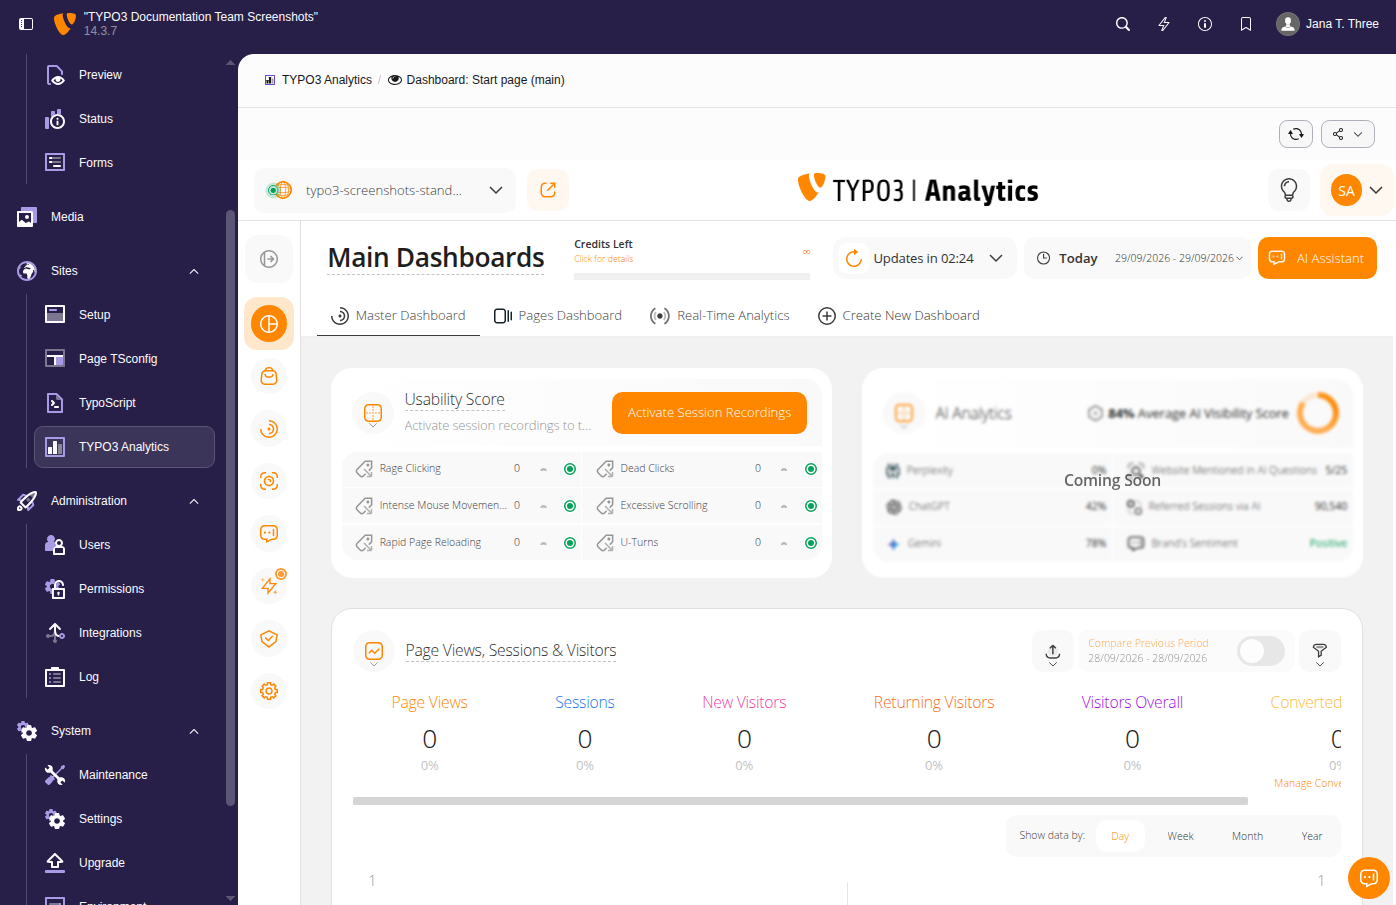
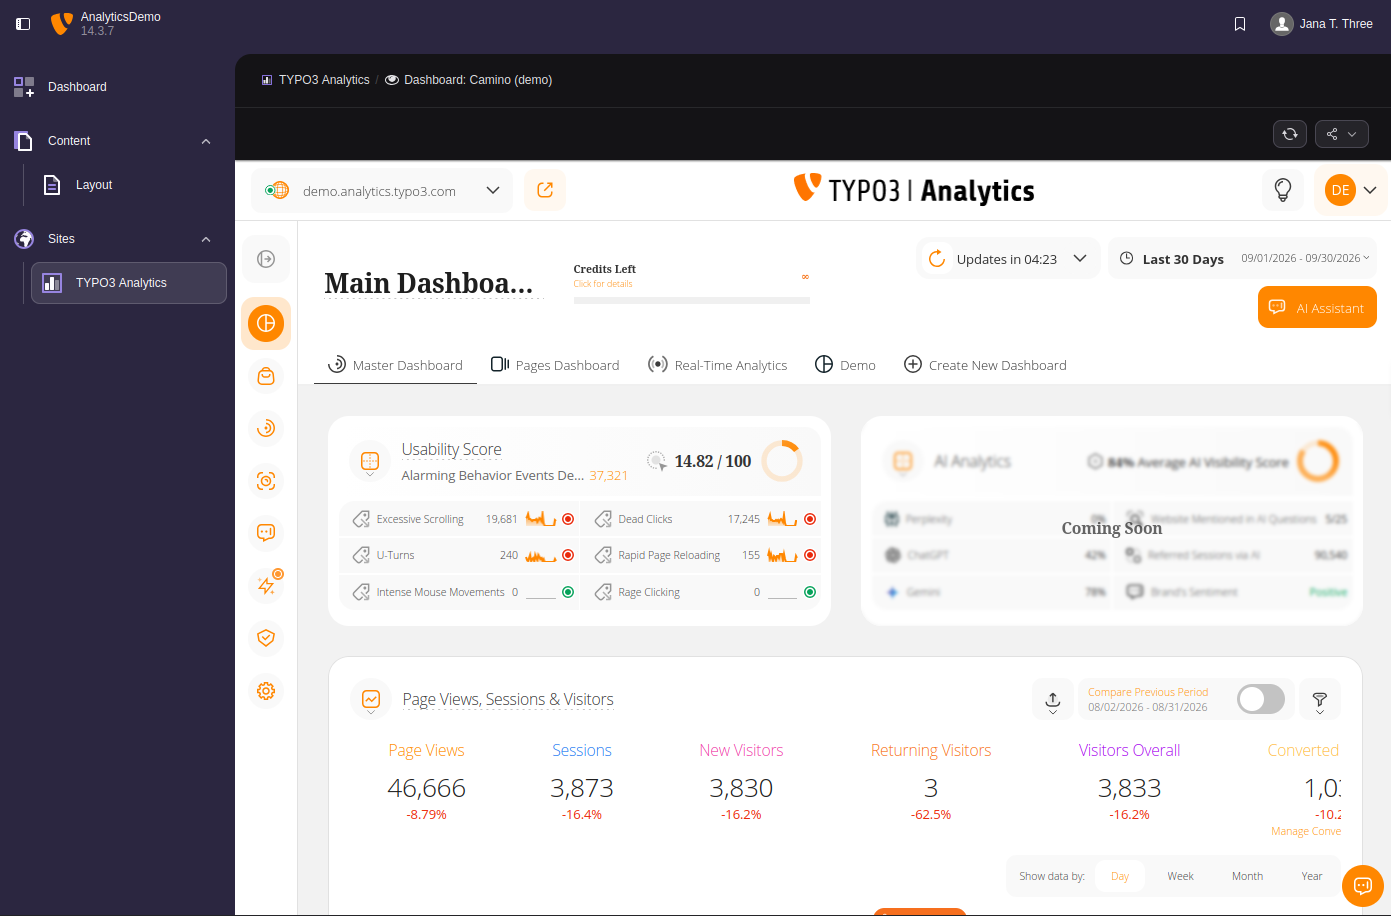
[DOCS] Use screenshots from demo site (#23)

diff --git a/Documentation/Editor/Index.rst b/Documentation/Editor/Index.rst
@@ -20,6 +20,12 @@ For editors
 Dashboard preset
 ================
 
+..  figure:: /Images/dashboard.png
+    :alt: The Dashboard module showing the button to create a new dashboard
+    :zoom: lightbox
+
+    Creating a new dashboard
+
 The extension ships a ready-made **Analytics Overview** dashboard preset that
 can be selected when creating a new TYPO3 dashboard. It pre-populates the
 dashboard with all four widget types:
@@ -32,32 +38,48 @@ dashboard with all four widget types:
 Select **Analytics Overview** in the dashboard creation wizard to get started
 immediately.
 
-..  figure:: /Images/dashboard.png
-    :alt: The open Dashboard module
-    :zoom: lightbox
 
-    Open the Dashboard module
 
-..  figure:: /Images/dashboard-preset.png
-    :alt: The Add Dashboard modal showing the Analytics Overview preset
-    :zoom: lightbox
+..  tabs::
 
-    Select the Analytics Overview preset to add an analytics dashboard
+    ..  tab:: Step 1
 
-..  figure:: /Images/dashboard-title.png
-    :alt: The Add Dashboard modal showing the title field
-    :zoom: lightbox
+        ..  figure:: /Images/dashboard-preset.png
+            :alt: The dashboard creation wizard showing the Analytics Overview preset
+            :zoom: gallery
+            :gallery: dashboard-preset
+            :align: center
 
-    Add a title for your analytics dashboard
+    ..  tab:: Step 2
 
-..  figure:: /Images/dashboard-created.png
-    :alt: The Add Dashboard modal with message that the dashboard has been created
-    :zoom: lightbox
+        ..  figure:: /Images/dashboard-title.png
+            :alt: The dashboard creation wizard showing the title field
+            :zoom: gallery
+            :gallery: dashboard-preset
+            :align: center
 
-    Click on Finish to add your dashboard
+    ..  tab:: Step 3
 
-..  figure:: /Images/dashboard-widgets.png
-    :alt: An empty analytics dashboard showing widgets Traffic Graph, Site performance and Top pages
-    :zoom: lightbox
+        ..  figure:: /Images/dashboard-created.png
+            :alt: The final screen in the dashboard creation wizard
+            :zoom: gallery
+            :gallery: dashboard-preset
+            :align: center
 
-    The new empty analytics dashboard with widgets Traffic Graph, Site performance and Top pages
+..  tabs::
+
+    ..  tab:: Dashboard Light
+
+        ..  figure:: /Images/dashboard-widgets-light.png
+            :alt: Analytics dashboard showing widgets Traffic Graph, Site performance and Top pages in light mode
+            :zoom: gallery
+            :gallery: dashboard-preset-widgets
+            :align: center
+
+    ..  tab:: Dashboard Dark
+
+        ..  figure:: /Images/dashboard-widgets-dark.png
+            :alt: Analytics dashboard showing widgets Traffic Graph, Site performance and Top pages in dark mode
+            :zoom: gallery
+            :gallery: dashboard-preset-widgets
+            :align: center

diff --git a/Documentation/Editor/BackendModule.rst b/Documentation/Editor/BackendModule.rst
@@ -6,15 +6,27 @@
 Backend module
 ==============
 
+..  tabs::
+
+    ..  tab:: Light
+
+        ..  figure:: /Images/backend-module-active-light.png
+            :alt: The analytics backend module with an active site card in light mode
+            :zoom: gallery
+            :gallery: backend-module
+            :align: center
+
+    ..  tab:: Dark
+
+        ..  figure:: /Images/backend-module-active-dark.png
+            :alt: The analytics backend module with an active site card in dark mode
+            :zoom: gallery
+            :gallery: backend-module
+            :align: center
+
 The **Sites → TYPO3 Analytics** module provides an overview of all configured
 TYPO3 sites and their analytics status. Sites are grouped into **Active sites**
 and **Inactive sites**.
-
-..  figure:: /Images/backend-module-inactive.png
-    :alt: The analytics backend module with a site card showing main as an inactive site showing status "Not registered"
-    :zoom: lightbox
-
-    An site card with an inactive site in the analytics backend module showing status "Not registered"
 
 Plans
 =====
@@ -36,6 +48,24 @@ Each site is shown as a card with the following information:
 -   Subscribed package and expiry date
 -   Credit usage and reset date
 
+..  tabs::
+
+    ..  tab:: Active site card Light
+
+        ..  figure:: /Images/active-site-card-light.png
+            :alt: Active site card information in light mode
+            :zoom: gallery
+            :gallery: site-card
+            :align: center
+
+    ..  tab:: Active site card Dark
+
+        ..  figure:: /Images/active-site-card-dark.png
+            :alt: Active site card information in dark mode
+            :zoom: gallery
+            :gallery: site-card
+            :align: center
+
 **Active sites** additionally show:
 
 -   A :guilabel:`Dashboard` button that opens the analytics dashboard as an
@@ -44,12 +74,6 @@ Each site is shown as a card with the following information:
 -   A :guilabel:`Refresh status` button to force a fresh status lookup from
     the API (bypasses the 24-hour cache)
 
-
-..  figure:: /Images/backend-module-active.png
-    :alt: The analytics backend module with a site card showing main as an active site showing buttons Dashboard, Manage Plan and Refresh Status
-    :zoom: lightbox
-
-    A site card with an active site in the analytics backend module with buttons Dashboard, Manage Plan and Refresh Status
 
 ..  note::
     The :guilabel:`Manage Plan` link and :guilabel:`Refresh status` button are
